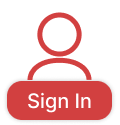
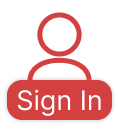
Login Button Modified

diff --git a/src/Header/util-bar/util-bar.css b/src/Header/util-bar/util-bar.css
@@ -21,17 +21,38 @@
 }
 
 .loginButton{
+    height: 52px;
     border-radius: 27px;
+    border: 0px;
 }
 
-.logoutButton{
+.logoutButton {
     background-color: red;
-    font-size: 20px;
+    color: white;
+    height: 35px;
+    width: 70px;
+    font-size: 15px;
     text-align: center;
     padding: 4px;
-    border-radius: 10px;
-}
+    border-radius: 8px;
+    border: 1px solid rgba(0, 0, 0, 0.2);
+    cursor: pointer;
+    transition: all 0.2s ease-in-out;
 
+    box-shadow: 0px 4px 6px rgba(0, 0, 0, 0.2);
+
+    /*------------- Hover Effect -------------*/
+    &:hover {
+        background-color: darkred;
+        box-shadow: 0px 6px 10px rgba(0, 0, 0, 0.3);
+    }
+
+    /*------------- Active/Click Effect -------------*/
+    &:active {
+        transform: scale(0.95);
+        box-shadow: 0px 2px 4px rgba(0, 0, 0, 0.2);
+    }
+}
 .user-info {
     display: flex;
     align-items: center;
